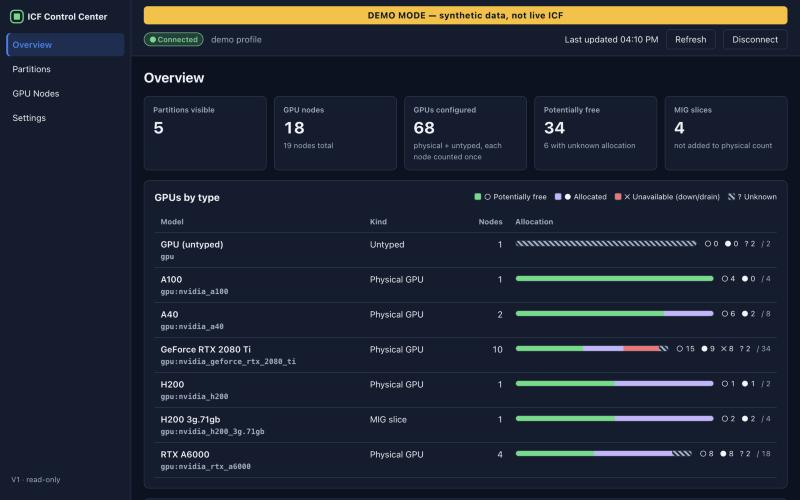
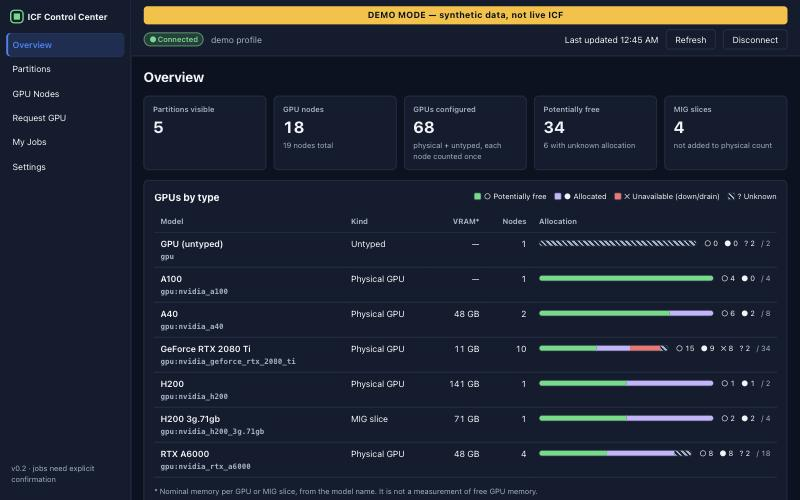
Update docs for V2: user guide, security, decisions, screenshots
- User guide: requesting GPUs, My Jobs, remembered partitions, and using
  the app without an SSH config.
- Security verification table: user-approved smoke test on ICF
  (job accepted, completed and log read); cancel still pending.
- ADR-013: default gateway when icf is not configured.
- Cluster compatibility: node states seen live on SLURM 25.05.3.
- Fresh demo-data screenshots of the current UI.

diff --git a/docs/SECURITY.md b/docs/SECURITY.md
@@ -85,6 +85,44 @@ Login form ──invoke(JSON, in-process)──▶ Rust (Zeroizing<String>)
   30 minutes without commands. Jobs and external VS Code sessions are never touched.
 - No telemetry. Diagnostics in Settings redact usernames by default.
 
+## V2: job submission, logs, cancellation
+
+- **Separate capability.** `jobs_submit` and `jobs_cancel` are the only commands that change cluster
+  state; they are granted in `capabilities/job-mutations.json`, apart from the read-only set.
+- **Identity** for all job operations comes from the authenticated probe (`id -un`, `$HOME`), never
+  from the UI. `squeue -u <user>`; rows for other users are dropped (and counted).
+- **Request validation** (`jobs/request.rs`, `deny_unknown_fields`): partition visible and not
+  denied; GRES type present on a node in that partition; GPU/CPU/RAM within the largest such node and
+  partition caps; wall time within `MaxTime`; job name `[A-Za-z0-9._-]`; paths absolute, inside
+  `$HOME`, conservative charset (no whitespace, quotes, `$`, backticks, globs, `%`, `.`/`..`).
+  Program arguments may contain anything printable and are single-quoted. Notices that need consent
+  (unknown eligibility, multi-GPU, Interactive partition, sourcing a file outside home) must be
+  acknowledged.
+- **Exactly one submission per review.** `jobs_preview` stores the rendered script under a random id;
+  `jobs_submit` removes it *before* sending, rejects duplicate client request ids, and runs under a
+  mutation lock. The script is re-validated against the newest snapshot, then sent in a quoted
+  heredoc to a single `sbatch --parsable`. On ICF the same command first resolves the working
+  directory, program, venv and setup file with `readlink -f` and refuses anything outside `$HOME`
+  (symlinks included) — nothing is submitted if a check fails.
+- **Uncertain outcomes.** If the connection drops or times out after the submission step started, the
+  receipt is marked *uncertain* and nothing is retried. Each job carries `--comment=icfcc-<tag>` so
+  the user can reconcile (search own jobs) explicitly. A receipt is written *before* sending, so a
+  crash mid-submit also reads as uncertain.
+- **Cancellation.** Requires a token issued by `jobs_get_detail` (only for own, cancellable jobs; 10
+  min TTL; constant-time compare; single use) plus a confirmation dialog. On ICF the same command
+  re-checks `squeue -j <id> -o %u|%T` and runs `scancel <one validated id>` — never `-u`, ranges,
+  wildcards or `scontrol update`. The UI says *Cancellation requested* until SLURM shows it.
+- **Logs.** Paths come from `scontrol show job` (or this app's receipts), placeholders are expanded
+  conservatively (`%j %A %a %x %u %%` only). On ICF the file must resolve inside `$HOME` and be owned by
+  you. Reads are bounded (64 KiB per request, incremental by byte offset, rotation detected) and
+  rate-limited per stream (5 s); text is stripped of ANSI/OSC (including terminal hyperlinks) and
+  control characters and rendered as plain text.
+- **Evidence.** Generated remote scripts are executed in a real `sh` with stub
+  `sbatch`/`squeue`/`scancel`/`python3` (`jobs/tests.rs`): payloads such as `$(touch PWNED)`,
+  backticks and `'; rm -rf /` arrive as literal argv, `sbatch` receives byte-identical script text,
+  symlinks out of home are refused, and `scancel` receives exactly one id.
+- Closing the app or disconnecting never cancels jobs.
+
 ## Verification status
 
 | Matrix row (V1 plan M2) | Evidence | Status |
@@ -98,7 +136,9 @@ Login form ──invoke(JSON, in-process)──▶ Rust (Zeroizing<String>)
 | OTP/MFA not stored | scripted ssh | ✅ simulated |
 | Reconnect with remembered password | scripted ssh + in-memory store; real Keychain round-trip test | ✅ |
 | Forget credential | UI test (confirmation) + Keychain delete test | ✅ |
-| **Real ICF gateway + ICF password prompts** | not run (needs your consent; read-only) | ⏳ pending |
+| Real ICF connection, read-only inventory | performed by the user on 2026-10-16 (screenshots) | ✅ |
+| Real ICF job submission | user-approved smoke test on 2026-10-16: job 3680123 (Teaching, 1× RTX 2080 Ti, 2 CPUs, 4 GB, 5 min) Accepted → COMPLETED 0:0 on `opencast`; stdout read in-app. An earlier ICF-Free attempt was cleanly rejected by sbatch (account/partition), no job created | ✅ |
+| Real ICF job cancel | not run; needs a separately approved job | ⏳ pending |
 
 A non-root `sshd` cannot produce password prompts, so the password rows rely on OpenSSH's documented
 prompt formats (unit-tested strings) until the manual ICF check is done. If the real Informatics

diff --git a/docs/USER_GUIDE.md b/docs/USER_GUIDE.md
@@ -2,6 +2,12 @@
 
 ## Connecting
 
+**No SSH config needed.** If `icf` is not set up in your `~/.ssh/config`, the app connects through the
+Informatics gateway (`student.ssh.inf.ed.ac.uk`) automatically, as the UUN you type. Just choose
+*Username and password*, enter your UUN and password, tick *Use the same password for the gateway and
+ICF* if they are the same, and verify both host keys on first connect. An existing `Host icf` entry or
+a jump host typed under *Advanced* always takes precedence.
+
 1. Open **ICF Control Center**.
 2. Choose a sign-in method:
    - **Use existing SSH config / agent** (recommended if `ssh icf` already works in Terminal with keys).
@@ -33,6 +39,41 @@
 - MIG slices (e.g. *H200 3g.71gb*) are listed separately from full GPUs.
 - *Visibility does not imply eligibility*: the scheduler decides which partitions accept your jobs.
 - *Data stale* means the last refresh failed or the data is old; the last good data stays visible.
+
+## Requesting a GPU (batch jobs)
+
+1. **Request GPU** (sidebar, or the button on a partition card).
+2. Choose a partition and GPU type. The numbers show *potential* availability at the last snapshot;
+   they are not a reservation. Set GPUs (default 1), CPUs, RAM and wall time (within the partition limit).
+3. Enter the **working directory** (relative paths start in your home, e.g. `projects/semeval`) and **script** on ICF (inside your home), an optional virtualenv
+   (`source <env>/bin/activate` is added) and optional arguments (one per line, passed literally).
+4. **Review script** shows the exact batch script and checksum. Acknowledge any notices, click
+   **Submit job…**, then confirm. The job is submitted once.
+5. Outcomes: **Accepted** (you get a job ID; it may wait in the queue), **Not submitted** (the reason
+   and a suggested edit), or **Submission uncertain** (the connection dropped mid-way). For uncertain,
+   use *Check my jobs for this submission* before submitting again; the app never retries by itself.
+
+The app remembers what SLURM said about each partition you submitted to from this Mac: a partition
+that accepted your last job shows *✓ accepted your last job* and needs no eligibility acknowledgement;
+one that rejected your account shows *rejected you before* and warns before review. In My Jobs, **✕**
+hides a finished submission from the list (it is still remembered for this purpose).
+
+Use **Teaching** for normal training. **Interactive** is for short debugging; the app only ever uses
+`sbatch` and never holds an interactive GPU shell open.
+
+### Allocated vs utilised
+A job that is *Pending* holds no GPU. When *Running*, SLURM has allocated the GPU to you, whether or
+not your code is using it. The app shows scheduler allocation, not GPU utilisation or free memory.
+
+## My Jobs
+
+Lists your queued/running jobs (`squeue`, every 45 s while visible) and the last 7 days of finished
+jobs (`sacct`, when the site provides it). Open a job for scheduler details, failure hints
+(timeout, out of memory, exit code) and logs:
+- **Load log** fetches the last 64 KB; **Load new output** fetches only what was added since.
+  *Follow* reloads every 10 s for running jobs while the window is visible.
+- **Cancel job…** appears only for your own pending/running jobs and asks for confirmation. The state
+  changes to *Cancelled* once SLURM reports it.
 
 ## Refresh and load on ICF
 

diff --git a/docs/RELEASE_CHECKLIST.md b/docs/RELEASE_CHECKLIST.md
@@ -15,12 +15,27 @@
 - [ ] Confirm policy on storing university passwords in the Keychain
 - Not done: signing with a Developer ID / notarization (not needed for local use)
 
-## V2 backlog (prioritised; types exist in `src/types`, no commands or permissions yet)
+## v0.2.0 (V2, jobs)
 
-1. `jobs_list_mine` (read): `squeue -u <verified remote user>` fixed format, own jobs only, ≤ 1/30–45 s while visible.
-2. `jobs_get_detail` (read): `scontrol show job <validated id>`; `sacct` if permitted.
-3. `jobs_preview` (local): typed form → exact sbatch script + warnings; script hash.
-4. `jobs_submit` (mutation, separate capability): single `sbatch --parsable` with script on stdin; uncertain network result → search own recent jobs + explicit user choice, never auto-retry.
-5. `jobs_get_log_tail` (read): bounded, sanitized tail of user-owned paths, ≤ 1/5–10 s.
-6. `jobs_cancel` (mutation): own jobs only, confirmation token.
-7. Local job reference store (no secrets), job states incl. `requeued`/`unknown`.
+- [x] Frontend gates: lint, typecheck, 31 UI tests (19 V1 regression + 12 V2), production build
+- [x] Rust gates: fmt, clippy `-D warnings`, 63 unit + 13 auth-flow + 5 job-flow tests
+- [x] Real-shell execution of generated submit/cancel/list/log scripts with stub scheduler binaries
+- [x] Opt-in real OpenSSH test re-run (V1 regression)
+- [x] `.app` builds
+- [x] **One approved on-cluster smoke test** — job 3680123 on 2026-10-16, COMPLETED, log read in-app (Teaching, 1 GPU of the smallest type, 2 CPUs, 4 GB, 5 min,
+      a script that prints `hostname` and `nvidia-smi -L` and exits): submit → see Pending/Running →
+      read stdout → Completed. Optionally a second approved job to test Cancel.
+- [x] UI polish after the smoke test: learned partition eligibility, dismissible receipts, one time
+      format, compact GPU type list, relative working directory, one Refresh per screen
+- [ ] Approved cancel test (second job, e.g. `sleep 240`)
+- [ ] Capture scrubbed real `squeue`/`sacct`/`scontrol show job` output as fixtures
+- [x] Smoke-test findings fixed (tests added; awaiting live re-check): job detail shows `Partition` as `Teaching AllocNode:Sid=…` (kv parser rejects
+      `:` in keys); RAM shown as `—`; H200/MIG allocation still Unknown (`GresUsed` likely needs `scontrol -d`)
+
+## V3 backlog (not started)
+
+1. `projects_open_in_vscode`: discover `code` CLI, `code --remote ssh-remote+icf <validated path>`.
+2. `projects_list_interpreters`: list `bin/python` under allowed project paths; optional `.vscode/settings.json` with consent.
+3. Dataset staging plan: single archive → per-job `/disk/scratch/<UUN>/<jobid>` inside the job, `trap` copy-back, safe cleanup.
+4. "Run selected script as batch job" reusing the V2 wizard and preview.
+5. Optional local SQLite job history with bounded retention.

diff --git a/docs/DECISIONS.md b/docs/DECISIONS.md
@@ -41,6 +41,40 @@ min with jitter) under a single-flight lock, so the budget holds even if the UI 
 mock backend that serves the Rust-generated demo snapshot JSON. A webview E2E harness can be added
 in V2 if job flows need it.
 
+## ADR-008 — One reviewed preview = at most one sbatch
+*Status: accepted (V2).* Submission takes a server-side preview id, not a request: the exact script the
+user reviewed is stored in Rust and consumed before sending. Duplicate client ids and concurrent
+mutations are refused. Unknown outcomes are reported as *uncertain* and reconciled only on request via
+the `icfcc-<tag>` job comment. There is no automatic retry path anywhere.
+
+## ADR-009 — Program location and logs
+*Status: accepted (V2).* Jobs run an existing script on ICF inside the user's home (a remote path, not a
+local file). The wizard writes `#SBATCH --chdir=<workdir>` and logs to `<workdir>/slurm-%j.out|.err`.
+Paths are validated locally and re-resolved on ICF (`readlink -f`, must stay under `$HOME`). Sourcing a
+setup file outside home (e.g. a shared CUDA toolchain rc) is allowed only with explicit
+acknowledgement.
+
+## ADR-010 — Job polling and history
+*Status: accepted (V2).* My Jobs polls `squeue` every 45 s only while visible (backend floor 30 s);
+`sacct` history (7 days) at most every 5 min unless refreshed manually; if `sacct` is missing or
+accounting is disabled the UI says history is unavailable instead of inventing it.
+
+## ADR-011 — Nominal VRAM only
+*Status: accepted (V2).* SLURM does not report GPU memory. The UI shows nominal per-GPU/MIG-slice memory
+from the model name (a small table; MIG profiles carry their size) and labels it nominal. No free-memory
+or utilisation claims.
+
+## ADR-012 — `GresUsed` when available
+*Status: accepted (V2).* If `scontrol show node` reports `GresUsed`, per-type allocation is taken from it
+(exact). Otherwise the V1 TRES rules apply and multi-type nodes with only an untyped total stay Unknown
+(as seen for the H200/MIG node on ICF).
+
+## ADR-013 — Default gateway when `icf` is not configured
+*Status: accepted (V2).* If the profile alias is `icf`, no jump host is entered, and `ssh -G icf` shows
+no ProxyJump/ProxyCommand with hostname still `icf`, the connection adds `-J <UUN>@student.ssh.inf.ed.ac.uk`
+(typed UUN, else the user `ssh -G` reports). The user's ssh config and any explicit jump host always win;
+other aliases are never changed. Host keys of both hops are still verified interactively.
+
 ## Open questions (need the user or Informatics)
 1. Exact prompt text of student.ssh.inf.ed.ac.uk and icf (password vs keyboard-interactive, MFA).
 2. Whether storing the university password in the Keychain is permitted by policy.

diff --git a/docs/CLUSTER_COMPATIBILITY.md b/docs/CLUSTER_COMPATIBILITY.md
@@ -5,10 +5,22 @@
 | When | Script | SLURM RPCs |
 |---|---|---|
 | Connect (once) | `id -un; id -Gn; hostname; printf '%s' "$HOME"; command -v sinfo squeue scontrol sbatch scancel; sinfo --version; sinfo --help \| grep -- --json` | 2 (`sinfo --version/--help` are local) |
-| Each refresh (≤ 1/min, default) | `scontrol show partition -o; scontrol show node -o` | 2 |
+| Each refresh (≤ 1/min, default) | `scontrol show partition -o; scontrol -d show node -o` | 2 |
 
-`command -v sbatch/scancel` only checks presence; nothing is executed. Nothing is installed or written
-on ICF. No command runs on compute nodes.
+`command -v sbatch/scancel` only checks presence. V1 commands never change anything on ICF.
+
+### V2 job commands (each only after an explicit user action unless noted)
+
+| When | Remote command(s) |
+|---|---|
+| My Jobs visible (every 45 s; manual ≥ 10 s apart) | `squeue -h -u <you> -o <fixed format>`; `sacct -X -P -u <you> -S now-7days -o <fields>` at most every 5 min |
+| Open a job | `scontrol show job -o <id>` (falls back to `sacct -j <id>` for finished jobs) |
+| Load log (≤ 1 per 5 s per stream) | `readlink -f`, `stat -c %U`, `wc -c`, `tail -c +N \| head -c ≤64KiB` on your own log file |
+| **Submit** (confirmed) | path checks with `readlink -f`, then one `sbatch --parsable` with the script on stdin |
+| **Cancel** (confirmed, own job) | `squeue -h -j <id> -o '%u\|%T'` then one `scancel <id>` |
+
+The app never uses `srun`, `salloc`, `scontrol update`, `scancel -u` or interactive GPU shells. Tools
+assumed on the login host: GNU coreutils (`readlink -f`, `stat -c`, `tail -c`, `head -c`).
 
 ## Fields used
 
@@ -22,8 +34,9 @@ on ICF. No command runs on compute nodes.
   overlapping Teaching/ICF-Free, Interactive, RTX 2080 Ti, A6000, H200 + MIG, down/drain/not
   responding, untyped GRES, GPUs not tracked as TRES, scheduler errors, malformed counts, empty output,
   property test over random inventories.
-- **Not yet tested against live ICF output.** The first read-only connection (with your consent)
-  should be followed by saving a scrubbed copy of the output as a new fixture.
+- Live ICF (SLURM 25.05.3), 2026-10-16: real `scontrol -d show node -o` lines (`real_icf_nodes` test).
+  States seen: idle, mixed, `MIXED+PLANNED` (sinfo `mixed-`: reserved for a queued job), drained,
+  `DOWN+NOT_RESPONDING` (sinfo `down*`). All map to known states. `GresUsed` needs `-d`.
 
 ## Unknowns to discover live
 

diff --git a/docs/ARCHITECTURE.md b/docs/ARCHITECTURE.md
@@ -14,6 +14,21 @@ types/      mirrors Rust serde models      auth/keychain.rs  Security.framework 
                                                          + normalization into ClusterSnapshot
                                            state.rs      snapshot cache + refresh budget
                                            profiles.rs   profiles/settings JSON (0600), validation
+features/jobs  wizard, My Jobs, detail,    jobs/request.rs  JobRequest validation + sbatch script render
+            log viewer, useJobs            jobs/remote.rs   fixed remote scripts + outcome classifiers
+                                           jobs/parse.rs    squeue/sacct/scontrol job/receipt/log parsers
+                                           jobs/store.rs    local submission receipts (jobs.json, 0600)
+                                           jobs/commands.rs jobs_* Tauri commands (mutations: separate capability)
+```
+
+## Job submission flow (V2)
+
+```text
+wizard ─jobs_preview─▶ validate vs snapshot ─▶ render script ─▶ store {previewId → script}
+       ◀─ script + checksum + notices
+confirm ─jobs_submit(previewId, ack, clientId)─▶ take preview (consumed) ─▶ re-validate
+       ─▶ receipt "submitting" ─▶ one mux command: path checks on ICF ─▶ sbatch --parsable (once)
+       ◀─ accepted {jobId} | rejected {reason} | uncertain (no retry; reconcile via icfcc-<tag>)
 ```
 
 ## Connection states
@@ -27,7 +42,7 @@ network), `auth_failed` (auth or host-key error; polling stops). Demo mode is `c
 1. UI timer (60 s default, only while visible) or Refresh button → `cluster_get_snapshot(force)`.
 2. Backend takes the cache lock (single flight), applies `state::decide`.
 3. If fetching: `ssh -O check` (local), then one mux command running the fixed `INVENTORY_SCRIPT`
-   (`scontrol show partition -o; scontrol show node -o`) with a 15 s timeout and 2 MiB cap.
+   (`scontrol show partition -o; scontrol -d show node -o`) with a 15 s timeout and 2 MiB cap.
 4. `slurm::parse_inventory` → `ClusterSnapshot` (nodes stored once by id; partitions reference ids;
    totals computed per partition and fleet-wide from unique nodes).
 5. On failure the last good snapshot is returned marked `stale`, with the error and next retry time.
